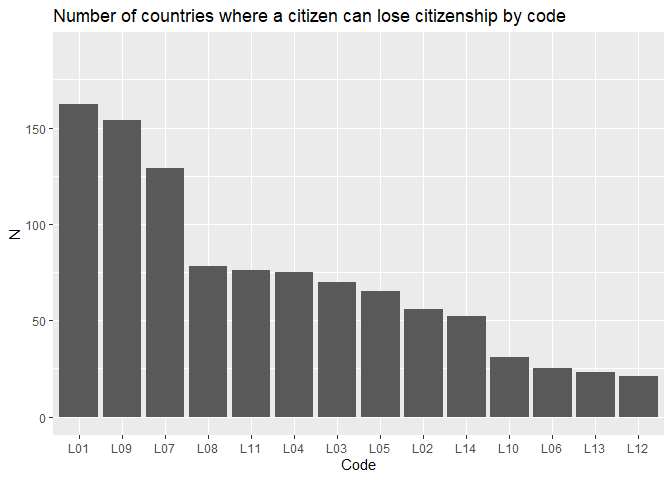
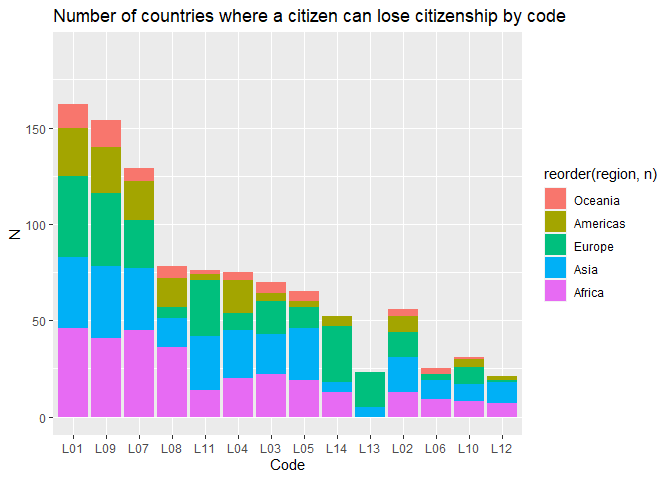
added region to graphs

diff --git a/EDA/eda.md b/EDA/eda.md
@@ -1,28 +1,4 @@
-    library(magrittr)
-    library(dplyr)
-    library(tidyr)
-    library(ggplot2)
-    library(purrr)
-
-    df <- readr::read_csv("../data/data_v1.0_country-year.csv")
-
-    df_long <- df %>%
-      tidyr::pivot_longer(names_to = "sub_code", values_to = "values", -c(iso3, country, year, region)) %>% 
-      mutate(bin = grepl("bin", sub_code),
-             acq = grepl("A", sub_code),
-             loss = grepl("L", sub_code),
-             code = substr(sub_code, 1, 3)
-             )
-
 ## Number of unique codes
-
-    acq_codes <- df_long %>% filter(acq) %>% distinct(code) %>% pull()
-    n_acq <- length(acq_codes)
-
-    loss_codes <- df_long %>% filter(loss) %>% distinct(code) %>% pull()
-    n_loss <- length(loss_codes)
-
-    n_cntry <- df %>% distinct(country) %>% pull() %>% length()
 
 -   Number **acquisition** variables: 24
 
@@ -38,12 +14,6 @@
 -   Number of countries: 190
 
 ## Countries with 99 in A06 code
-
-    df_long %>%
-      filter(bin) %>%
-      filter(acq) %>%
-      filter(values == 99) %>% 
-      distinct(country)
 
     ## # A tibble: 15 x 1
     ##    country    
@@ -66,38 +36,13 @@
 
 ## Most common acq codes
 
-    acq_code_common <- df_long %>%
-      filter(bin) %>%
-      filter(acq) %>%
-      filter(values == 1) %>%
-      distinct(code, country) %>% 
-      group_by(code) %>% 
-      tally() %>% 
-      arrange(desc(n))
-
-    ggplot(acq_code_common, aes(x = reorder(code, -n), y = n)) +
-      geom_bar(stat="identity") +
-      labs(y = "N",
-           x = "Code",
-           title = "Number of countries where a citizen can gain citizenship by code") +
-      ylim(0, n_cntry)
-
 ![](eda_files/figure-markdown_strict/unnamed-chunk-5-1.png)
 
-    loss_code_common <- df_long %>%
-      filter(bin) %>%
-      filter(loss) %>%
-      filter(values == 1) %>%
-      distinct(code, country) %>% 
-      group_by(code) %>% 
-      tally() %>% 
-      arrange(desc(n))
-
-    ggplot(loss_code_common, aes(x = reorder(code, -n), y = n)) +
-      geom_bar(stat="identity") +
-      labs(y = "N",
-           x = "Code",
-           title = "Number of countries where a citizen can lose citizenship by code") +
-      ylim(0, n_cntry)
-
 ![](eda_files/figure-markdown_strict/unnamed-chunk-6-1.png)
+
+## Initial Observations
+
+-   All countries share at one way to gain citizenship (A01)
+-   There isn’t one universal way citizens can lose citizenship
+-   L13 doesn’t apply to any countries in Africa, Oceania, or the
+    Americas
